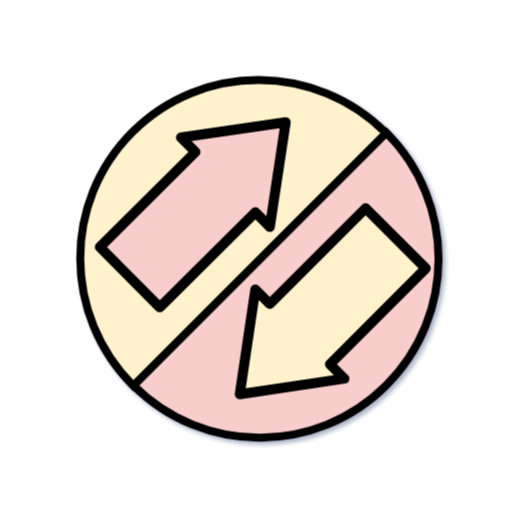
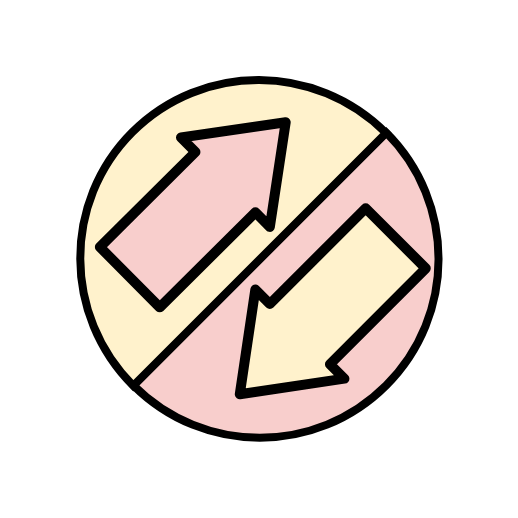
update images

Changed region(s): [[0.1236, 0.1236, 0.8649, 0.8649]]

diff --git a/_docs/getting_started/index.md b/_docs/getting_started/index.md
@@ -5,7 +5,7 @@ redirect_from: /docs/index.html
 ---
 
 <p align="center">
-   <img src="https://i.imgur.com/zQcqqML.png" alt="BinSync Logo"/>
+   <img src="https://i.imgur.com/qdesKpg.png" style="width: 30%;" alt="BinSync Logo"/>
 </p>
 
 BinSync is a decompiler collaboration tool built on the Git versioning system to enable fined-grained reverse
